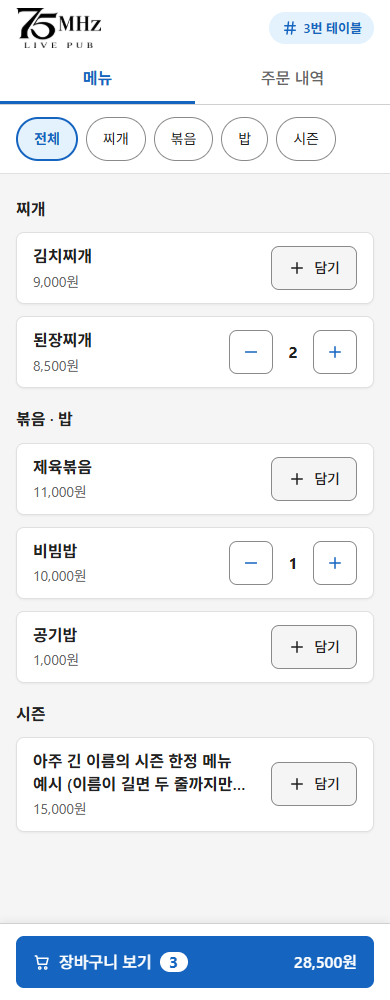
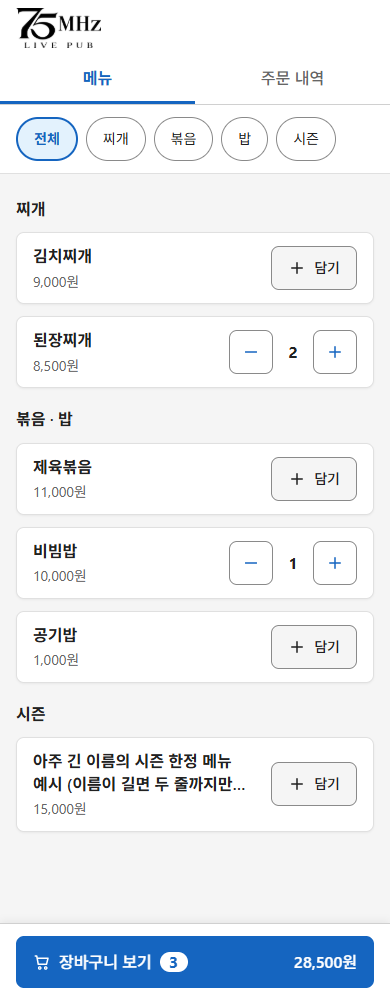
docs(design): U-06 리뷰 반영 (Idempotency-Key 규칙, 422 확인 안내, 세션 종료 문구, B-18 결제 주문 제외, 테이블 배지 B-14 이후)

Changed region(s): [[0.6769, 0.0, 0.9538, 0.062]]

diff --git a/docs/design/customer/prototype/customer-flow.html b/docs/design/customer/prototype/customer-flow.html
@@ -39,10 +39,10 @@
 /* 데이터 필드: openapi Menu(name, price, category, is_active) / Order(status, total_amount, created_at, items[menu_name, qty, item_status]). 값은 모두 더미.
    카테고리 표시 이름은 category 값("main","side" 등)을 프론트 매핑 테이블로 한글 변환한다(D-18과 같은 방식). 주류 2종은 판매가 미정이라 더미. */
 const STATES = [
-  ['menu','메뉴 기본'],['menu-loading','메뉴 로딩'],['menu-empty','메뉴 빈 상태'],['menu-error','메뉴 오류'],['session','QR 만료(401)'],
+  ['menu','메뉴 기본'],['menu-loading','메뉴 로딩'],['menu-empty','메뉴 빈 상태'],['menu-error','메뉴 오류'],['session','세션 종료(401)'],
   ['cart','장바구니'],['cart-empty','장바구니 빈 상태'],['cart-max','수량 20 제한'],
-  ['confirm','주문 확인'],['submitting','전송 중'],['submit-error','전송 실패'],['submit-409','메뉴 품절(409)'],['done','주문 완료'],
-  ['status','주문 상태'],['status-loading','상태 로딩'],['status-empty','상태 빈 상태'],['status-error','상태 오류'],['status-end','결제·취소']
+  ['confirm','주문 확인'],['submitting','전송 중'],['submit-error','전송 실패'],['submit-409','메뉴 품절(409)'],['submit-422','접수 확인 필요(422)'],['done','주문 완료'],
+  ['status','주문 상태'],['status-loading','상태 로딩'],['status-empty','상태 빈 상태'],['status-error','상태 오류'],['status-end','취소 주문']
 ];
 let state = new URLSearchParams(location.search).get('state') || 'menu';
 const ic = n => '<i data-icon="'+n+'"></i>';
@@ -57,7 +57,7 @@ const CART = [['오늘의 플레이트',15000,1],['버팔로 윙',10000,2],['참
 const total = CART.reduce((s,c)=>s+c[1]*c[2],0), count = CART.reduce((s,c)=>s+c[2],0);
 
 function header(active, withTabs=true){
-  return '<header class="c-bar"><div class="c-bar-top"><img class="app-logo" src="../../brand/logo-compact-black.png" alt="75MHz LIVE PUB"><span class="c-table">'+ic('hash')+'3번 테이블</span></div>'+
+  return '<header class="c-bar"><div class="c-bar-top"><img class="app-logo" src="../../brand/logo-compact-black.png" alt="75MHz LIVE PUB"></div>'+
   (withTabs?'<div class="c-tabs" role="tablist"><button role="tab" aria-selected="'+(active==='menu')+'">메뉴</button><button role="tab" aria-selected="'+(active==='status')+'">주문 내역</button></div>':'')+'</header>';
 }
 function subHeader(title){ return '<header class="c-bar"><div class="c-sub"><button class="c-back" aria-label="메뉴로 돌아가기">'+ic('x')+'</button><span class="c-title">'+title+'</span></div></header>'; }
@@ -91,13 +91,15 @@ function confirmSheet(){
   const sum = '<div class="total-row" style="padding:12px 0;border-top:1px solid var(--color-border-light)"><span>합계</span><span>'+won(total)+'</span></div>';
   let banner = '', footer;
   if (state==='submit-error') banner = '<div class="banner banner-error" role="alert">'+ic('alert')+'<div class="banner-body"><div class="banner-title">주문을 보내지 못했습니다</div>네트워크를 확인하고 다시 눌러 주세요. 주문이 두 번 들어가지 않습니다.</div></div>';
+  if (state==='submit-422') banner = '<div class="banner banner-warning" role="alert">'+ic('alert')+'<div class="banner-body"><div class="banner-title">방금 보낸 주문이 이미 접수되었을 수 있습니다</div>다시 보내기 전에 주문 내역에서 먼저 확인해 주세요.</div></div>';
   if (state==='submit-409') banner = '<div class="banner banner-error" role="alert">'+ic('alert')+'<div class="banner-body"><div class="banner-title">버팔로 윙은 방금 품절되었습니다</div>장바구니에서 뺐습니다. 나머지 메뉴로 다시 확인해 주세요.</div></div>';
   if (state==='submitting') footer = '<button class="btn btn-secondary" disabled>돌아가기</button><button class="btn btn-primary" disabled aria-busy="true">'+ic('spinner')+'보내는 중</button>';
+  else if (state==='submit-422') footer = '<button class="btn btn-secondary">돌아가기</button><button class="btn btn-primary">'+ic('receipt')+'주문 내역 보기</button>';
   else if (state==='submit-409') footer = '<button class="btn btn-primary">장바구니로 돌아가기</button>';
   else footer = '<button class="btn btn-secondary">돌아가기</button><button class="btn btn-primary">'+ic(state==='submit-error'?'refresh':'check')+(state==='submit-error'?'다시 보내기':'주문 보내기')+'</button>';
   let t='주문을 보낼까요?', ci = items, cs = sum;
   if (state==='submit-409'){ ci = '<ul class="item-list" style="margin-bottom:12px">'+CART.filter(c=>c[0]!=='버팔로 윙').map(c=>'<li><span class="nm">'+esc(c[0])+' ×'+c[2]+'</span><span>'+won(c[1]*c[2])+'</span></li>').join('')+'</ul>'; cs = '<div class="total-row" style="padding:12px 0;border-top:1px solid var(--color-border-light)"><span>합계</span><span>'+won(19000)+'</span></div>'; }
-  return sheet('<div class="modal-title" id="mt">'+t+'</div><div class="modal-body">'+banner+(banner?'<div style="height:12px"></div>':'')+'3번 테이블 · '+(state==='submit-409'?2:count)+'개'+'<div style="height:8px"></div>'+ci+cs+'</div><div class="modal-footer stack-btn">'+footer+'</div>');
+  return sheet('<div class="modal-title" id="mt">'+t+'</div><div class="modal-body">'+banner+(banner?'<div style="height:12px"></div>':'')+(state==='submit-409'?2:count)+'개'+'<div style="height:8px"></div>'+ci+cs+'</div><div class="modal-footer stack-btn">'+footer+'</div>');
 }
 function doneBody(){
   return header('menu',false)+'<main class="c-main"><div class="card c-state" role="status"><span class="badge badge-served" style="padding:12px">'+ic('check')+'</span><h2>주문이 접수되었습니다</h2><p>조리가 시작되면 "주문 내역"에서 진행 상태를 볼 수 있습니다.</p><button class="btn btn-primary btn-lg btn-block">'+ic('receipt')+'주문 내역 보기</button><button class="btn btn-secondary btn-lg btn-block">더 주문하기</button></div></main>';
@@ -114,10 +116,10 @@ function statusBody(){
   if (state==='status-loading') return head+'<main class="c-main" aria-busy="true"><div class="loading-note" role="status" style="border:0">'+ic('spinner')+'주문 내역을 불러오는 중</div><span class="c-skel" style="height:200px"></span></main>';
   if (state==='status-empty') return head+'<main class="c-main"><div class="card c-state">'+ic('receipt')+'<h2>아직 주문 내역이 없습니다</h2><p>메뉴에서 주문하면 여기에서 진행 상태를 볼 수 있습니다.</p><button class="btn btn-primary btn-lg">'+ic('utensils')+'메뉴 보기</button></div></main>';
   if (state==='status-error') return head+'<main class="c-main"><div class="banner banner-error" role="alert">'+ic('alert')+'<div class="banner-body"><div class="banner-title">주문 내역을 새로 불러오지 못했습니다</div>마지막으로 본 내용을 보여 드립니다. 10초마다 다시 시도합니다.</div><button class="btn btn-secondary">'+ic('refresh')+'지금 다시</button></div><div class="refresh-note">'+ic('clock')+'18:41 기준</div>'+orderCard({st:'cooking',time:'18:36',total:39000,items:[['오늘의 플레이트',1,'cooking'],['버팔로 윙',2,'done'],['참치마요 카나페',1,'pending']]})+'</main>';
-  if (state==='status-end') return head+'<main class="c-main">'+orderCard({st:'cancelled',time:'18:20',total:10000,items:[['치즈 플레이트',1,'pending']],note:'직원이 주문을 취소했습니다. 궁금한 점은 직원에게 말씀해 주세요.'})+orderCard({st:'paid',time:'17:48',total:30000,items:[['마른안주',2,'done'],['올리브마리네이트',1,'done']]})+'</main>';
+  if (state==='status-end') return head+'<main class="c-main">'+orderCard({st:'cancelled',time:'18:20',total:10000,items:[['치즈 플레이트',1,'pending']],note:'직원이 주문을 취소했습니다. 궁금한 점은 직원에게 말씀해 주세요.'})+orderCard({st:'served',time:'18:12',total:20000,items:[['마른안주',1,'done'],['올리브마리네이트',1,'done']]})+'</main>';
   return head+'<main class="c-main"><div class="refresh-note">'+ic('clock')+'18:42 기준 · 10초마다 자동 갱신</div>'+orderCard({st:'cooking',time:'18:36',total:39000,items:[['오늘의 플레이트',1,'cooking'],['버팔로 윙',2,'done'],['참치마요 카나페',1,'pending']]})+orderCard({st:'served',time:'18:12',total:20000,items:[['치즈 플레이트',1,'done'],['올리브마리네이트',1,'done']]})+'</main>';
 }
-function sessionBody(){ return header('menu',false)+'<main class="c-main"><div class="card c-state">'+ic('lock')+'<h2>주문 시간이 지났습니다</h2><p>테이블의 QR 코드를 다시 찍어 주세요. 계속 안 되면 직원에게 말씀해 주세요.</p></div></main>'; }
+function sessionBody(){ return header('menu',false)+'<main class="c-main"><div class="card c-state">'+ic('lock')+'<h2>주문 시간이 지났거나 QR이 바뀌었습니다</h2><p>QR 코드를 다시 찍어 주세요. 계속 안 되면 직원에게 말씀해 주세요.</p></div></main>'; }
 
 function render(){
   const p = document.getElementById('phone'), layer = document.getElementById('layer');
@@ -125,7 +127,7 @@ function render(){
   if (state.startsWith('menu')) html = header('menu')+menuBody();
   else if (state==='session') html = sessionBody();
   else if (state.startsWith('cart')) html = cartBody();
-  else if (['confirm','submitting','submit-error','submit-409'].includes(state)) { html = cartBody(); lay = confirmSheet(); }
+  else if (['confirm','submitting','submit-error','submit-409','submit-422'].includes(state)) { html = cartBody(); lay = confirmSheet(); }
   else if (state==='done') html = doneBody();
   else html = statusBody();
   p.innerHTML = html; layer.innerHTML = lay; UI.run();

diff --git a/docs/design/customer/prototype/customer.html b/docs/design/customer/prototype/customer.html
@@ -11,7 +11,6 @@
   <header class="c-bar">
     <div class="c-bar-top">
       <img class="app-logo" src="../../brand/logo-compact-black.png" alt="75MHz LIVE PUB">
-      <span class="c-table"><i data-icon="hash"></i>3번 테이블</span>
     </div>
     <div class="c-tabs" role="tablist">
       <button role="tab" aria-selected="true">메뉴</button>

diff --git a/docs/design/customer/spec.md b/docs/design/customer/spec.md
@@ -1,10 +1,10 @@
 # U-06 손님 QR 주문 화면 명세
 
 상태: 메뉴 목록 메인(U-03) + 흐름 4화면 상태별 시안·상세(U-06).
-프로토타입: `prototype/customer.html`(메인), `prototype/customer-flow.html`(상태 보기 바 또는 `?state=` 키 18종, 390×844). 기준 기기: 손님 휴대폰, 한 손 조작.
+프로토타입: `prototype/customer.html`(메인), `prototype/customer-flow.html`(상태 보기 바 또는 `?state=` 키 19종, 390×844). 기준 기기: 손님 휴대폰, 한 손 조작.
 
 ## 구성
-- 상단 바: 로고, 테이블 번호 배지, 탭(메뉴 / 주문 내역, 높이 48px).
+- 상단 바: 로고, 탭(메뉴 / 주문 내역, 높이 48px). 테이블 번호 배지는 B-14 이후 추가.
 - 카테고리 칩(가로 스크롤, 높이 44px). 카테고리는 `Menu.category`.
 - 메뉴 행 카드: 이름(2줄 말줄임), 가격, 오른쪽에 "담기" 버튼 또는 수량 조절(− 수량 +, 각 44px). 담으면 수량 조절로 바뀐다.
 - 하단 고정 바: "장바구니 보기" + 담은 개수 + 합계. 장바구니가 비면 비활성.
@@ -18,7 +18,7 @@
 - 주문 생성 본문은 `items[{menu_id, qty}]`만 보낸다. 세션은 `POST /tables/{table_id}/session`.
 
 ## 계약 요청·결정 반영
-1. 테이블 번호: 세션 응답에 `table_no`가 없다. 10/24에 B-14로 추가 예정(민준 님). 그 전까지 시안의 "3번 테이블"은 더미이고, 구현은 B-14 이후에 붙인다.
+1. 테이블 번호: 세션 응답에 `table_no`가 없다. 10/24에 B-14로 추가 예정(민준 님). B-14 전까지 상단 바에 테이블 배지를 그리지 않는다(시안에도 없음). 더미 번호는 쓰지 않는다. B-14 이후 로고 오른쪽에 "n번 테이블" 배지를 추가한다.
 2. 일시 품절(D-37): 손님 메뉴판에서 숨긴다. 품절 표시는 두지 않는다(시안에도 없음).
 3. `stock_warnings[]`: 손님 화면에는 표시하지 않는다. 10/24 B-15에서 손님 응답 정리 예정. 파일럿 중에는 D-34로 값이 항상 비어 있다.
 4. 메뉴 이미지·설명 필드는 없다. 이번 시안은 이름·가격만 쓴다.
@@ -47,7 +47,7 @@
 - 로딩: "메뉴를 불러오는 중" + 스켈레톤 4줄. 하단 바 비활성.
 - 빈 상태: 수저 아이콘 + "지금 주문할 수 있는 메뉴가 없습니다" + "직원에게 말씀해 주세요." 하단 바 비활성.
 - 오류: 경고 아이콘 + "메뉴를 불러오지 못했습니다" + "네트워크를 확인하고 다시 시도해 주세요." + "다시 시도". 하단 바 비활성.
-- 세션 만료(401, `table_session_token` 만료 4시간·QR 재발급): 자물쇠 아이콘 + "주문 시간이 지났습니다" + "테이블의 QR 코드를 다시 찍어 주세요. 계속 안 되면 직원에게 말씀해 주세요." 버튼 없음(QR은 기기 밖에서 찍는다). 담아 둔 장바구니는 새 세션에서 비운다.
+- 세션 종료(401: 토큰 만료 4시간 또는 QR 재발급. 결제해도 세션은 만료되지 않는다): 자물쇠 아이콘 + "주문 시간이 지났거나 QR이 바뀌었습니다" + "QR 코드를 다시 찍어 주세요. 계속 안 되면 직원에게 말씀해 주세요." 401은 상태 코드만 보고 처리한다(응답에 `code` 없음). 버튼 없음(QR은 기기 밖에서 찍는다). 담아 둔 장바구니는 새 세션에서 비운다.
 
 **장바구니**
 - 기본: 행마다 이름(3줄 말줄임)·단가·수량 조절·행 합계, 합계 카드, 안내 "주문을 보낸 뒤에는 직원에게 말씀해야 취소할 수 있습니다." 하단 바 "주문하기 {합계}".
@@ -55,11 +55,11 @@
 - 수량 20 제한: 메뉴당 20개(직원 대리 주문과 같은 화면 제한, 계약은 바꾸지 않음). 20에서 "+"는 비활성, 행에 "최대 20개까지 담을 수 있습니다"를 글자로 보인다. 수량을 0으로 줄이면 행이 사라진다.
 
 **주문 확인(시트)**
-- 기본: 제목 "주문을 보낼까요?", 테이블·개수, 항목·수량·금액, 합계, "주문 보내기"(primary)와 "돌아가기". 버튼은 세로로 쌓고 각 52px 이상.
+- 기본: 제목 "주문을 보낼까요?", 개수, 항목·수량·금액, 합계, "주문 보내기"(primary)와 "돌아가기". 버튼은 세로로 쌓고 각 52px 이상.
 - 전송 중: 두 버튼 모두 비활성, "보내는 중"(스피너 + 글자). Esc·바깥 터치로 닫히지 않는다.
-- 전송 실패(네트워크·5xx): 시트 안 `role="alert"` 배너 "주문을 보내지 못했습니다 / 네트워크를 확인하고 다시 눌러 주세요. 주문이 두 번 들어가지 않습니다." 버튼 "다시 보내기". 재시도는 같은 `Idempotency-Key`를 쓴다(키는 시트를 열 때 생성). 장바구니 내용이 바뀌면 새 키.
+- 전송 실패(네트워크·5xx): 시트 안 `role="alert"` 배너 "주문을 보내지 못했습니다 / 네트워크를 확인하고 다시 눌러 주세요. 주문이 두 번 들어가지 않습니다." 버튼 "다시 보내기". 재시도는 같은 `Idempotency-Key`를 쓴다(키는 시트를 처음 열 때 생성). 응답을 받지 못한 전송 뒤에는 새 키를 만들지 않는다. 그 상태에서 수량을 바꾸려 하면 "방금 보낸 주문이 이미 접수되었을 수 있습니다. 주문 내역에서 먼저 확인해 주세요"를 먼저 보이고 주문 내역으로 안내한다(중복 주문 방지).
 - 메뉴 품절(409 `MENU_UNAVAILABLE`): 배너 "{메뉴명}은(는) 방금 품절되었습니다 / 장바구니에서 뺐습니다. 나머지 메뉴로 다시 확인해 주세요." 해당 메뉴를 장바구니에서 빼고 `GET /menus`를 다시 조회한다. 버튼 "장바구니로 돌아가기". 주문이 만들어지지 않았으므로 다음 전송은 새 키. 메뉴명은 응답 `detail`에서 읽지 않고 장바구니와 다시 불러온 메뉴를 대조해 정한다(일반 텍스트로만 표시, D-24).
-- 그 밖의 422(`IDEMPOTENCY_KEY_MISMATCH`): 위 전송 실패 배너와 같은 문구에 "다시 보내기"가 새 키로 보낸다.
+- 422 `IDEMPOTENCY_KEY_MISMATCH`: 앞선 전송이 이미 서버에 도착했다는 뜻이므로 새 키로 다시 보내지 않는다. 경고 배너 "방금 보낸 주문이 이미 접수되었을 수 있습니다 / 다시 보내기 전에 주문 내역에서 먼저 확인해 주세요." + 버튼 "주문 내역 보기"(primary), "돌아가기". 이 422의 `code`는 응답의 `detail.code`에 한 단계 중첩돼 있다(B-16에서 최상위로 맞출 예정). 그 전까지 구현은 `code`를 두 위치 모두에서 확인한다. 409의 `code`는 최상위.
 
 **주문 완료:** 체크 아이콘 + "주문이 접수되었습니다" + "조리가 시작되면 \"주문 내역\"에서 진행 상태를 볼 수 있습니다." 버튼 "주문 내역 보기"(primary), "더 주문하기". `stock_warnings`는 응답에 있어도 표시하지 않는다.
 
@@ -68,7 +68,7 @@
 - 로딩: "주문 내역을 불러오는 중" + 스켈레톤.
 - 빈 상태: 영수증 아이콘 + "아직 주문 내역이 없습니다" + "메뉴에서 주문하면 여기에서 진행 상태를 볼 수 있습니다." + "메뉴 보기".
 - 오류(폴링 실패): 마지막 데이터를 유지하고 경고 배너 "주문 내역을 새로 불러오지 못했습니다 / 마지막으로 본 내용을 보여 드립니다. 10초마다 다시 시도합니다." + "지금 다시", 갱신 시각은 "18:41 기준".
-- 결제 완료: 진행 막대 없이 "결제 완료" 배지. 취소: "취소" 배지 + "직원이 주문을 취소했습니다. 궁금한 점은 직원에게 말씀해 주세요."
+- 결제 완료 주문은 B-18 이후 서버가 손님 내역에서 빼므로 "결제 완료" 상태는 화면에 없다(앞 손님의 주문이 다음 손님에게 보이지 않게 하는 조치). 취소 주문은 세션 발급 이후 것만 오며 "취소" 배지 + "직원이 주문을 취소했습니다. 궁금한 점은 직원에게 말씀해 주세요."를 보인다. 서빙 완료 주문은 결제 전까지 남는다.
 
 ## 문구 원칙
 손님에게는 "항목 취소"나 "재고" 같은 내부 말을 쓰지 않는다. 취소는 직원에게 말하도록 안내한다(손님 취소 API 없음). 모든 오류는 무엇이 일어났는지 + 다음에 할 일을 한 문장씩.
@@ -79,14 +79,14 @@
 - 수량 변화는 `aria-live="polite"`, 오류는 `role="alert"`, 시트는 포커스를 가두고 닫으면 열었던 버튼으로 복귀(전송 중 제외).
 - 상태는 색 + 아이콘 + 글자. 320px 폭에서도 가로 스크롤은 카테고리 칩에만 있다.
 
-## 계약 확인이 필요한 점 (민준 님께)
-1. `GET /orders/mine`이 취소·결제 완료 주문도 돌려주는지, 몇 건까지 주는지(페이지 없음). 테이블 세션 안의 주문만이라면 시안처럼 모두 보인다.
-2. 401(세션 만료)은 `GET /menus`와 `POST /orders` 모두에서 같은 형식인지.
-3. 주류 26종이 올라가면 메뉴 수가 30개를 넘는다. `GET /menus`는 `limit`·`cursor` 페이지를 쓰므로 손님 화면은 전체를 불러온 뒤 카테고리로 나눈다. 한 번에 최대 몇 개를 주는지 확인이 필요하다.
+## 계약 확인 결과 (민준 님 답변, 백엔드 코드 확인)
+1. `GET /orders/mine`은 결제 완료·취소 주문을 포함해 전부 돌려주고 개수 제한이 없다. 결제해도 세션은 만료되지 않는다. 그래서 다음 손님에게 앞 손님 주문이 보이는 문제를 B-18(파일럿 P0)에서 고친다: 결제 완료 주문은 응답에서 빼고, 취소 주문은 세션 발급(`iat`) 이후 것만 준다. 이 시안은 B-18 이후 동작 기준이다.
+2. 401은 `GET /menus`, `POST /orders` 모두 `{"detail": "..."}` 형식이고 `code`가 없다. 상태 코드만 보고 처리한다. 422 `IDEMPOTENCY_KEY_MISMATCH`는 `detail.code`로 한 단계 중첩돼 있다(B-16에서 맞춤). 그 전까지 `code`는 두 위치를 모두 확인한다.
+3. 메뉴 개수: `limit` 기본 50, 최대 200. 손님 화면은 `limit=200`으로 불러오고 다음 페이지가 있으면 이어 받아 카테고리로 나눈다. 주류 26종 추가로 메뉴는 32개다.
 
 ## 완료 조건 (구현자)
-1. 위 18개 상태가 시안과 같은 문구·구조로 나온다. 캡처: `screens/u06-customer-{menu,menu-loading,menu-empty,menu-error,session,cart,cart-empty,cart-max,confirm,submitting,submit-error,submit-409,done,status,status-loading,status-empty,status-error,status-end}.png`
-2. `Idempotency-Key`는 시트를 열 때 만들고 재시도에 같은 값을 쓴다. 장바구니가 바뀌거나 409 뒤에는 새 값.
+1. 위 19개 상태가 시안과 같은 문구·구조로 나온다. 캡처: `screens/u06-customer-{menu,menu-loading,menu-empty,menu-error,session,cart,cart-empty,cart-max,confirm,submitting,submit-error,submit-409,submit-422,done,status,status-loading,status-empty,status-error,status-end}.png`
+2. `Idempotency-Key`는 시트를 처음 열 때 만들고 재시도에 같은 값을 쓴다. 새 키는 전송 성공 뒤, 409 `MENU_UNAVAILABLE` 뒤, 시트를 처음 열 때만 만든다. 응답을 받지 못한 뒤에는 새 키를 만들지 않고, 수량을 바꾸려 하면 주문 내역 확인을 먼저 안내한다.
 3. 전송 중에는 중복 전송이 불가능하다(버튼 비활성).
 4. 메뉴명·재료명 등 모든 문자열은 일반 텍스트로 렌더링한다(D-24).
 5. 주문 내역 폴링 간격 10초는 상수 하나.
